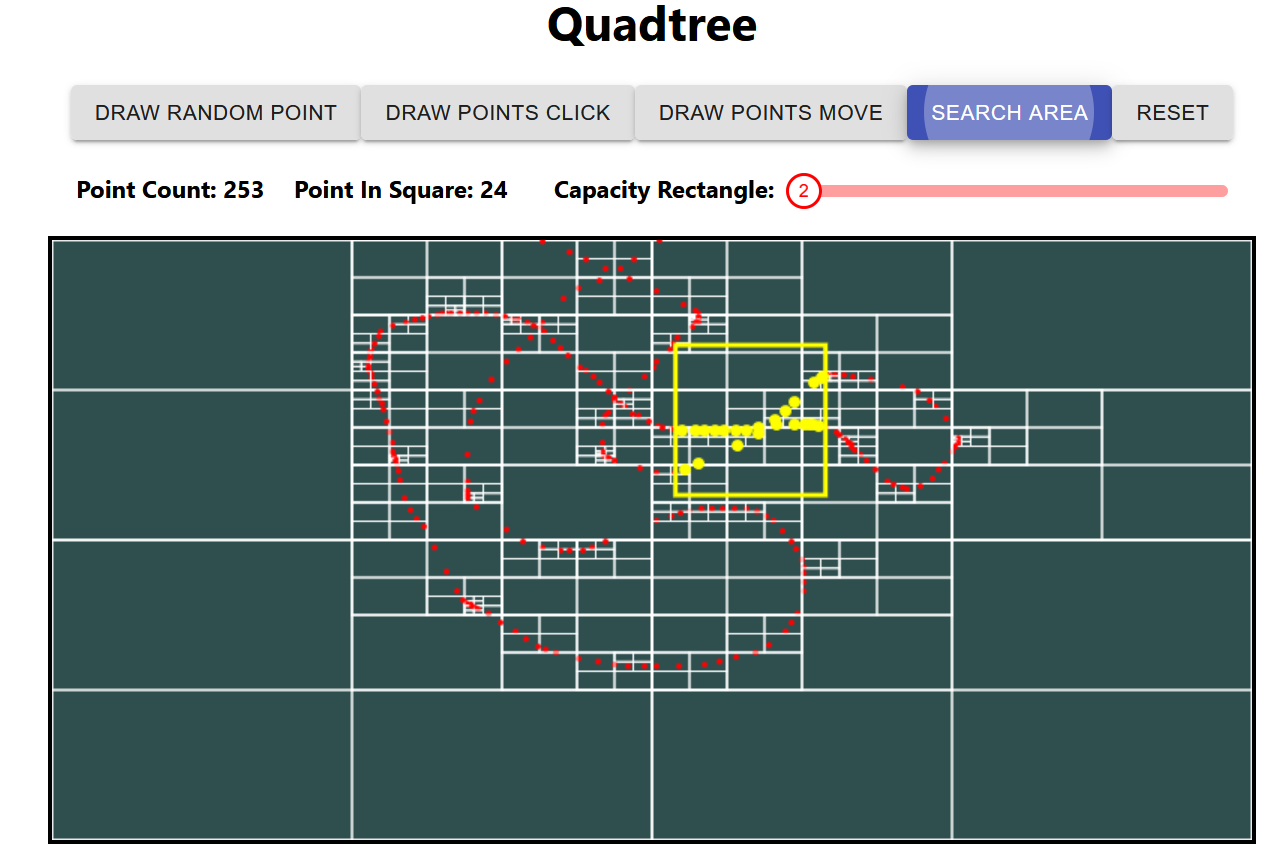
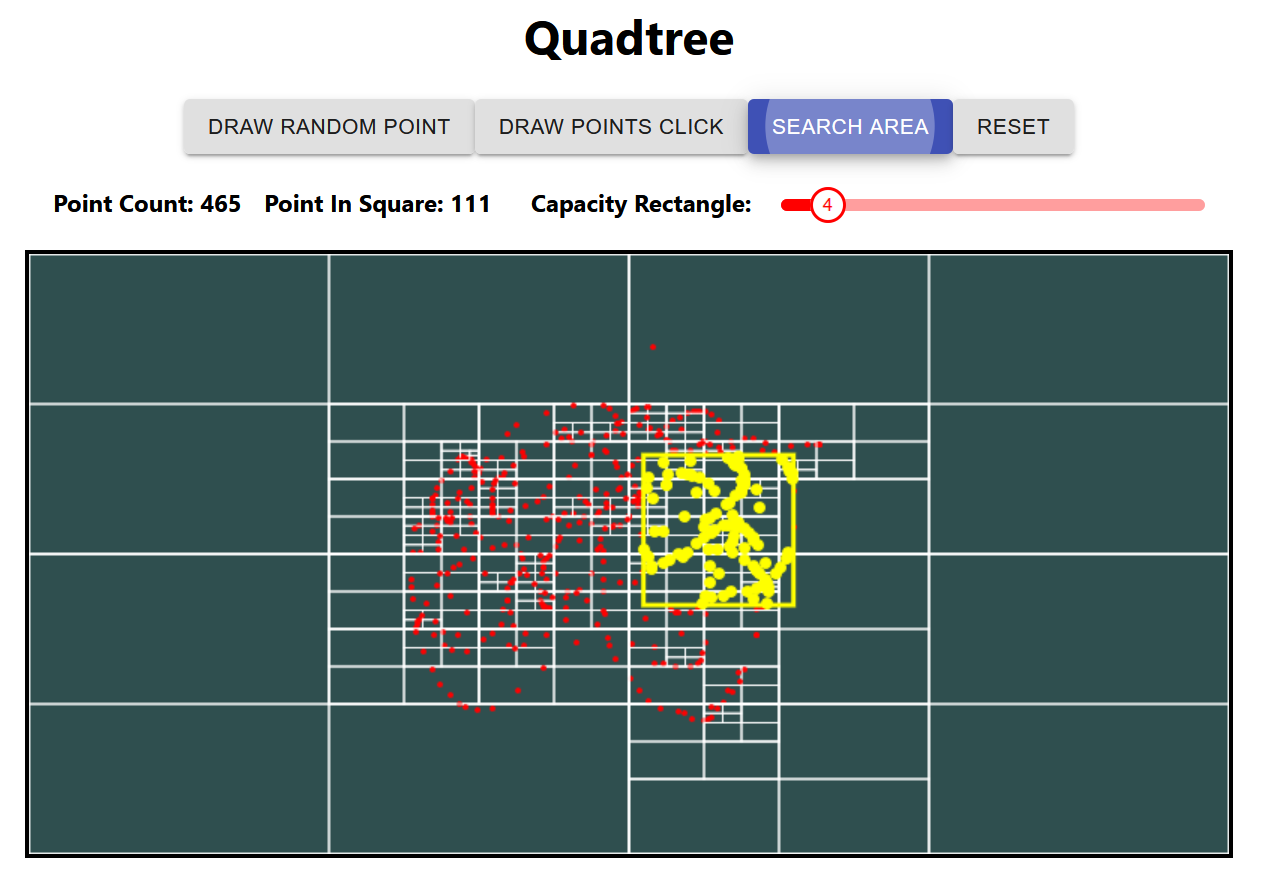
New Mouse Movement handler added

Changed region(s): [[0.0, 0.0, 0.9873, 0.9988]]

diff --git a/quadtree-visual/src/Quadtree/Quadtree.js b/quadtree-visual/src/Quadtree/Quadtree.js
@@ -67,8 +67,7 @@ const CANVAS_WIDTH=800;
 const CANVAS_HEIGHT=400;
 const CAPACITY_DEFAULT=4;
 const DRAW_MODE_ON_CLICK=0;
-const DRAW_MODE_ON_MOVE=1;
-const DRAW_MODE_ON_SEARCH=2;
+const DRAW_MODE_ON_SEARCH=1;
 const DRAW_MODE_NONE=-1;
 
 export default class Quadtree extends React.Component{
@@ -81,6 +80,7 @@ export default class Quadtree extends React.Component{
             pointsInSquareCount:0,
             capacity:CAPACITY_DEFAULT,
             query:false,
+            mouseDown: false,
             qtree:new QuadtreeConcrete(new Rectangle(CANVAS_WIDTH/2,CANVAS_HEIGHT/2,CANVAS_WIDTH/2,CANVAS_HEIGHT/2), CAPACITY_DEFAULT),
             addRandomPoints:true,
         }
@@ -98,14 +98,27 @@ export default class Quadtree extends React.Component{
     }
 
     //Draws a point on Canvas "2dplane" and save it in the array points
-    drawPointOnClick(e){
-        let newPoints = drawPointOnClick(e,this.state.points, this.state.classMode);
-        this.setState({points: newPoints});
-        let qtree = this.state.qtree;
-        qtree.insert(newPoints[newPoints.length-1]);
-        this.setState({qtree:qtree});
-        resetCanvas();
-        qtree.draw();
+    drawPointOnMove(e){
+      if(!this.state.mouseDown){
+        return;
+      }
+        this.onClickEvent(e);
+    }
+
+    //Draws a point on Canvas "2dplane" and save it in the array points
+    onClickEvent(e){
+      let newPoints = drawPointOnClick(e,this.state.points, this.state.classMode);
+      this.setState({points: newPoints});
+      let qtree = this.state.qtree;
+      qtree.insert(newPoints[newPoints.length-1]);
+      this.setState({qtree:qtree});
+      resetCanvas();
+      qtree.draw();
+    }
+
+    //Sets the Variable on Mouse Down to true/ Mouse UP to false
+    setsMouseIsDown(){
+        this.setState({mouseDown: !this.state.mouseDown})
     }
 
     //Add random Points
@@ -155,7 +168,6 @@ export default class Quadtree extends React.Component{
                 <h1>Quadtree</h1>
                 <Button color={!addRandomPoints ? "primary":"default"} variant="contained" onClick={addRandomPoints? () => this.addRandomPoints():() => this.stopADDRandomPoints()}>Draw Random Point</Button>
                 <Button color={drawMode===DRAW_MODE_ON_CLICK ? "primary":"default"} variant="contained" onClick={() => {this.setState({drawMode: DRAW_MODE_ON_CLICK, addRandomPoints:true})}}>Draw Points Click</Button>
-                <Button color={drawMode===DRAW_MODE_ON_MOVE ? "primary":"default"} variant="contained" onClick={() => {this.setState({drawMode: DRAW_MODE_ON_MOVE, addRandomPoints:true})}}>Draw Points Move</Button>
                 <Button color={drawMode===DRAW_MODE_ON_SEARCH ? "primary":"default"} variant="contained" onClick={() => {this.setState({drawMode: DRAW_MODE_ON_SEARCH, addRandomPoints:true})}}>Search Area</Button>
                 <Button variant="contained" onClick={() => this.reset()}>Reset</Button>
                 <div className="quadtree__labels">
@@ -168,16 +180,12 @@ export default class Quadtree extends React.Component{
                         />
                     </div>
                 </div>
-                {drawMode===0 ? 
-                    <canvas className="quadtree__canvas__2dplane" id="2d-plane" width={CANVAS_WIDTH} height={CANVAS_HEIGHT}
-                        onClick={ (e) => this.drawPointOnClick(e)}
-                    ></canvas>
-                    :
-                    <canvas className="quadtree__canvas__2dplane" id="2d-plane" width={CANVAS_WIDTH} height={CANVAS_HEIGHT}
-                        onMouseMoveCapture={drawMode===DRAW_MODE_ON_MOVE ? (e) => this.drawPointOnClick(e): drawMode!==DRAW_MODE_NONE ? (e) => this.drawSearchArea(e):null }
-                    ></canvas> 
-                }
-               
+                <canvas className="quadtree__canvas__2dplane" id="2d-plane" width={CANVAS_WIDTH} height={CANVAS_HEIGHT}
+                  onMouseDown={()=> this.setsMouseIsDown()}
+                  onMouseUp={()=> this.setsMouseIsDown()}
+                  onMouseMove={drawMode===DRAW_MODE_ON_CLICK?(e) => this.drawPointOnMove(e):(e) => this.drawSearchArea(e)}
+                  onClick={(e) => this.onClickEvent(e)}
+                ></canvas>               
             </div>
         );
     }
@@ -190,3 +198,9 @@ const createPoint=(x,y)=>{
         y:y,
     };
 }
+
+/**
+ *                  <canvas className="quadtree__canvas__2dplane" id="2d-plane" width={CANVAS_WIDTH} height={CANVAS_HEIGHT}
+                        onClick={ (e) => this.drawPointOnClick(e)}
+                    ></canvas>
+ */
